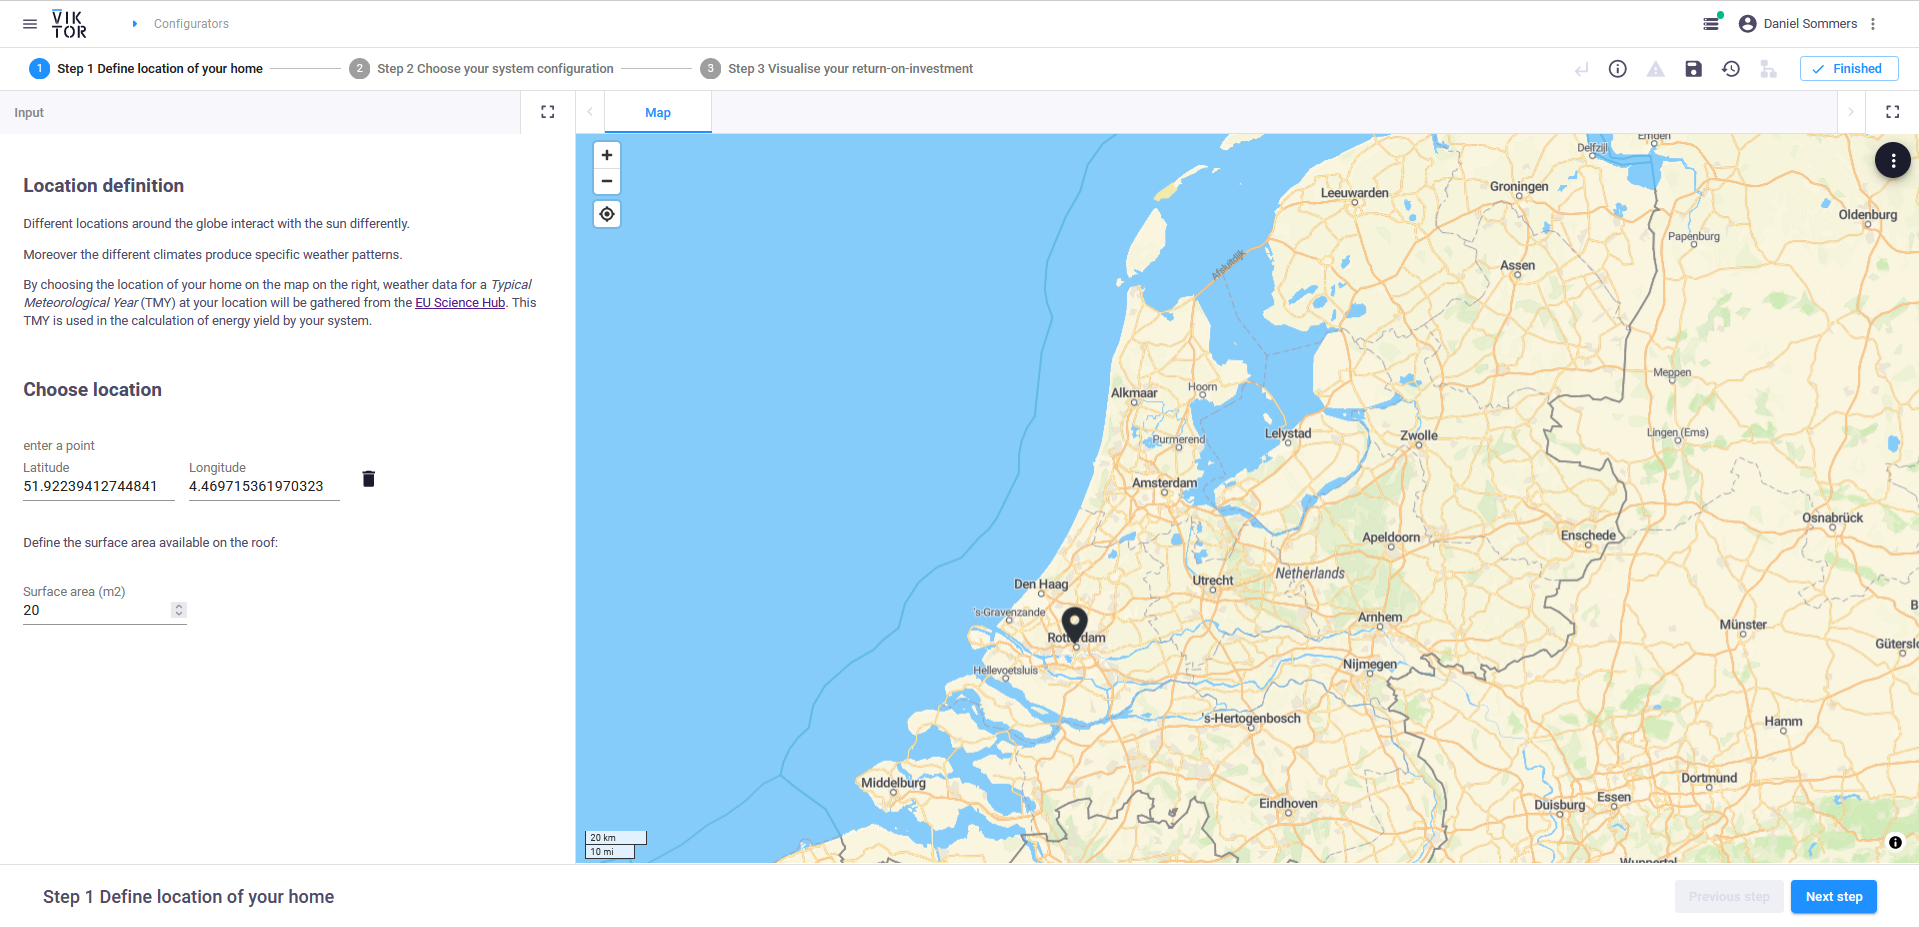
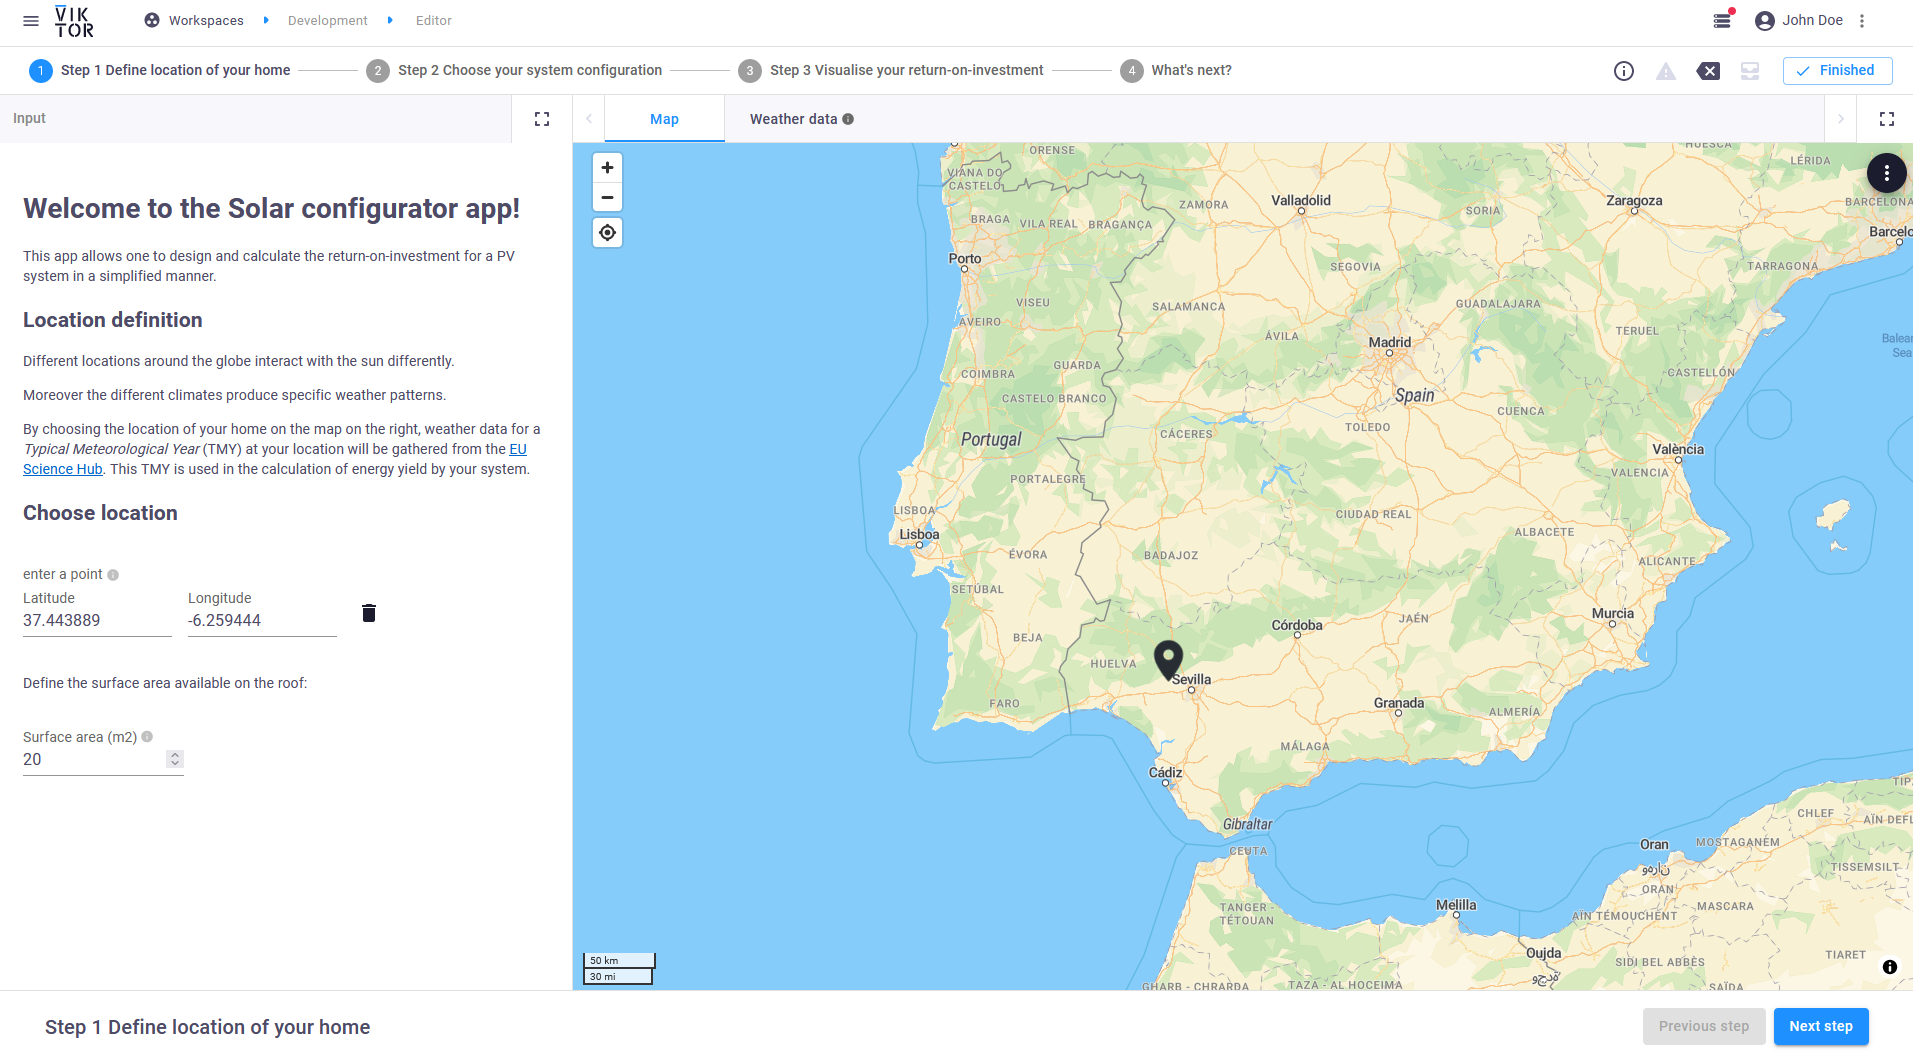
final step added, readme updated, changes made after review

diff --git a/final_step.html b/final_step.html
@@ -1,0 +1,90 @@
+<!DOCTYPE html>
+<html>
+<head>
+    <title>Title of the document</title>
+    <style>
+      div {
+        display: flex;
+        flex-direction: column;
+        justify-content: center;
+        align-items: center;
+        height: 100%;
+        width: 100%;
+
+        font-family: 'Roboto', sans-serif;
+        font-style: normal;
+      }
+      h5 {
+        font-weight: 400;
+        font-size: 48px;
+        line-height: 116.7%;
+        text-align: center;
+        color: #14142B;
+      }
+      p {
+      font-weight: 400;
+      font-size: 16px;
+      line-height: 175%;
+      text-align: center;
+      letter-spacing: 0.15px;
+      color: #4E4B66;
+    }
+    button_text {
+      width: 153px;
+      height: 26px;
+      font-weight: 500;
+      font-size: 15px;
+      line-height: 26px;
+      letter-spacing: 0.46px;
+      text-transform: capitalize;
+      color: #FFFFFF;
+      flex: none;
+      order: 0;
+      flex-grow: 0;
+    }
+    a {
+        display: flex;
+        flex-direction: column;
+        align-items: center;
+        padding: 4px 4px;
+        gap: 8px;
+        justify-content: center;
+        width: 197px;
+        height: 42px;
+        font-family: 'Roboto', sans-serif;
+        font-style: normal;
+        font-weight: bold;
+        font-size: 15px;
+        line-height: 26px;
+        text-decoration: none;
+        color: #FFFFFF;
+        background: #1E90FF;
+        box-shadow: 0px 3px 1px -2px rgba(0, 0, 0, 0.2), 0px 2px 2px rgba(0, 0, 0, 0.14), 0px 1px 5px rgba(0, 0, 0, 0.12);
+        border-radius: 4px;
+        flex: none;
+        order: 0;
+        flex-grow: 0;
+        cursor: pointer;
+    }
+    </style>
+</head>
+<body>
+<div>
+    <h5>
+        &#x2600;&#xfe0f;<br><br>So, what's next?
+    </h5>
+    <p>
+        Do you want to explore more public VIKTOR apps?
+    </p>
+    <a href="https://www.viktor.ai/apps-gallery/" target="_blank" rel="noopener noreferrer" class="button">Explore apps</a>
+    <p>
+        Do you want to build your own VIKTOR app?
+    </p>
+    <a href="https://www.viktor.ai/start-building-apps" style="background-color: #FFCC33; color: #14142B" target="_blank" rel="noopener noreferrer" class="button">Get started!</a>
+    <p>
+        Curious how this app was built? Go check out the repository:
+    </p>
+    <a href="https://github.com/viktor-platform/sample-solar-panel-configurator" style="background-color: #14142B" target="_blank" rel="noopener noreferrer" class="button">Github repository</a>
+</div>
+</body>
+</html>

diff --git a/app.py b/app.py
@@ -15,6 +15,7 @@ CONTRACT, TORT OR OTHERWISE, ARISING FROM, OUT OF OR IN CONNECTION WITH THE SOFT
 SOFTWARE.
 """
 import datetime
+from pathlib import Path
 
 import numpy as np
 import pandas as pd
@@ -31,6 +32,8 @@ from viktor.views import (
     PlotlyAndDataView,
     PlotlyResult,
     PlotlyView,
+    WebResult,
+    WebView,
 )
 
 from constants import inverter_name_dict, module_name_dict
@@ -212,9 +215,7 @@ class Controller(ViktorController):
             number_of_decimals=2,
         )
 
-        data = DataGroup(
-            energy_info, number_of_modules, inverter_cost, module_cost, total_cost
-        )
+        data = DataGroup(energy_info, number_of_modules, inverter_cost, module_cost, total_cost)
 
         # prepare data for plotly
         yield_df = yield_df.groupby(pd.Grouper(key="dat", freq="1D")).sum()
@@ -280,9 +281,9 @@ class Controller(ViktorController):
         time_period = "-"
         if idxs:
             break_even_date = x_dat[idxs[0]]
-            time_period = datetime.datetime.strptime(
-                break_even_date, "%Y-%m-%d %H:%M"
-            ) - datetime.datetime.strptime(x_dat[0], "%Y-%m-%d %H:%M")
+            time_period = datetime.datetime.strptime(break_even_date, "%Y-%m-%d %H:%M") - datetime.datetime.strptime(
+                x_dat[0], "%Y-%m-%d %H:%M"
+            )
             time_period = round(time_period.days / 365, 1)
             _line = {
                 "type": "rect",
@@ -305,21 +306,19 @@ class Controller(ViktorController):
                 "data": [
                     {
                         "type": "line",
-                        "x": x_dat,
-                        "y": y_dat.tolist(),
+                        "x": x_dat[::50],
+                        "y": y_dat.tolist()[::50],
                         "name": "Energy yield",
                     },
                     {
                         "type": "line",
-                        "x": x_dat,
-                        "y": z_dat.tolist(),
+                        "x": x_dat[::50],
+                        "y": z_dat.tolist()[::50],
                         "name": "Break-even point",
                     },
                 ],
                 "layout": {
-                    "title": {
-                        "text": f"Energy generation over time (break-even = {time_period} years)"
-                    },
+                    "title": {"text": f"Energy generation over time (break-even = {time_period} years)"},
                     "xaxis": {"title": {"text": "Forecast horizon"}},
                     "yaxis": {"title": {"text": "Revenue produced by system [€]"}},
                 },
@@ -329,7 +328,12 @@ class Controller(ViktorController):
         else:
             fig = {
                 "data": [
-                    {"type": "bar", "x": x_dat, "y": y_dat.tolist(), "name": "Energy yield"}
+                    {
+                        "type": "bar",
+                        "x": x_dat[::50],
+                        "y": y_dat.tolist()[::50],
+                        "name": "Energy yield",
+                    }
                 ],
                 "layout": {
                     "title": {"text": "Energy generation over time"},
@@ -341,9 +345,7 @@ class Controller(ViktorController):
         return PlotlyResult(fig)
 
     @staticmethod
-    def get_energy_generation(
-        location: GeoPoint, inverter: str, solar_module: str, solar_surface_area: float
-    ):
+    def get_energy_generation(location: GeoPoint, inverter: str, solar_module: str, solar_surface_area: float):
         """Generate energy yield data"""
         return calculate_energy_generation(
             latitude=location.lat,
@@ -359,3 +361,11 @@ class Controller(ViktorController):
         current_year = datetime.date.today().year
         frame = frame.apply(lambda dt: dt.replace(year=current_year + increment))
         return frame
+
+    @WebView(" ", duration_guess=1)
+    def final_step(self, params, **kwargs):
+        """Initiates the process of rendering the last step."""
+        html_path = Path(__file__).parent / "final_step.html"
+        with html_path.open() as f:
+            html_string = f.read()
+        return WebResult(html=html_string)

diff --git a/pv_calculations.py b/pv_calculations.py
@@ -15,7 +15,6 @@ CONTRACT, TORT OR OTHERWISE, ARISING FROM, OUT OF OR IN CONNECTION WITH THE SOFT
 SOFTWARE.
 """
 import datetime
-from pathlib import Path
 
 import pandas as pd
 import pvlib
@@ -33,9 +32,7 @@ def translate_names(entry):
 
 def get_location_data(latitude, longitude):
     """Retrieves the weather data based on the location."""
-    weather, _, inputs, _ = pvlib.iotools.get_pvgis_tmy(
-        latitude, longitude, map_variables=True
-    )
+    weather, _, inputs, _ = pvlib.iotools.get_pvgis_tmy(latitude, longitude, map_variables=True)
     weather.index.name = "utc_time"
     altitude = inputs["location"]["elevation"]
 
@@ -71,9 +68,7 @@ def calculate_energy_generation(
     nr_modules = area // surface_area
 
     # get temperature specifications of module materials (default most used in consumer-systems)
-    temperature_model_parameters = pvlib.temperature.TEMPERATURE_MODEL_PARAMETERS[
-        "sapm"
-    ]["open_rack_glass_glass"]
+    temperature_model_parameters = pvlib.temperature.TEMPERATURE_MODEL_PARAMETERS["sapm"]["open_rack_glass_glass"]
 
     # retreive weather data and elevation (altitude)
     location_data = get_location_data(latitude, longitude)
@@ -121,12 +116,8 @@ def calculate_energy_generation(
         total_irrad["poa_direct"], total_irrad["poa_diffuse"], am_abs, aoi, module
     )
     dc_yield = pvlib.pvsystem.sapm(effective_irradiance, tcell, module)
-    ac_yield = pvlib.inverter.sandia(
-        dc_yield["v_mp"] * nr_modules, dc_yield["p_mp"] * nr_modules, inverter
-    )
-    ac_yield_per_module = pvlib.inverter.sandia(
-        dc_yield["v_mp"], dc_yield["p_mp"], inverter
-    )
+    ac_yield = pvlib.inverter.sandia(dc_yield["v_mp"] * nr_modules, dc_yield["p_mp"] * nr_modules, inverter)
+    ac_yield_per_module = pvlib.inverter.sandia(dc_yield["v_mp"], dc_yield["p_mp"], inverter)
 
     # output for the energy per module
     yield_per_module = ac_yield_per_module.to_frame()
@@ -137,9 +128,7 @@ def calculate_energy_generation(
     # prepare data for presentation and visualisation
     acdf = ac_yield.to_frame()
     acdf["utc_time"] = pd.to_datetime(acdf.index)
-    acdf["utc_time"] = acdf["utc_time"].apply(
-        lambda dt: dt.replace(year=datetime.date.today().year)
-    )
+    acdf["utc_time"] = acdf["utc_time"].apply(lambda dt: dt.replace(year=datetime.date.today().year))
 
     acdf.columns = ["val", "dat"]
 

diff --git a/parametrization.py b/parametrization.py
@@ -17,6 +17,7 @@ SOFTWARE.
 """
 from munch import Munch
 from viktor.errors import UserError
+from viktor.geometry import GeoPoint
 from viktor.parametrization import (
     GeoPointField,
     NumberField,
@@ -28,6 +29,8 @@ from viktor.parametrization import (
 )
 
 from constants import inverter_name_dict
+
+DEFAULT_LOCATION = GeoPoint(37.443889, -6.259444)
 
 
 def validate_step_1(params, **kwargs):
@@ -58,7 +61,7 @@ class ConfiguratorParametrization(Parametrization):
     )
 
     step_1.text = Text(
-        """# Welcome to the Solar configurator app
+        """# Welcome to the Solar configurator app!
 This app allows one to design and calculate the return-on-investment for a PV system in a simplified manner.
 
 ## Location definition
@@ -78,6 +81,7 @@ system.
     step_1.point = GeoPointField(
         "enter a point",
         description="Click a location on the map to select it for calculation",
+        default=DEFAULT_LOCATION,
     )
     step_1.text3 = Text("""Define the surface area available on the roof:""")
     step_1.surface = NumberField(
@@ -164,9 +168,7 @@ compensated by the revenue produced.
         default=5,
         flex=80,
         min=1,
-        description="Amount of years starting at"
-        "  \n the beginning of this year"
-        "  \n (enter only whole years)",
+        description="Amount of years starting at" "  \n the beginning of this year" "  \n (enter only whole years)",
     )
     step_3.kwh_cost = NumberField(
         "Enter kWh price to calculate break-even",
@@ -190,8 +192,5 @@ point.
 """
     )
     step_3.break_even_toggle = ToggleButton("Show break-even point", default=True)
-    step_3.text3 = Text(
-        """### Curious how this app was made?
-For more information, check out the [repository on Github](https://github.com/viktor-platform/sample-solar-panel-configurator)
-"""
-    )
+
+    final_step = Step("What's next?", views="final_step")

diff --git a/README.md b/README.md
@@ -4,23 +4,44 @@
 
 This sample app shows how to design a home PV-system and calculate its yield.
 
-The goal of this sample app is to show how a super easy to use app looks like. 
-Concepts like Steps, descriptions and markdown text is present to guide a user.
-This app also interacts with external databases for component information and weather data.
+The goal of this app is to demonstrate how the VIKTOR platform can be used in the renewable energy industry, as well as
+ to demonstrate how a platform like VIKTOR can leverage community supported developments to accelerate the pace of 
+developments and innovation. This app was developed on top of an open-source python library (`pvlib`) that provides a 
+set of functions and classes for simulating the performance of photovoltaic energy systems.
 
-A published version of this app is available on [demo.viktor.ai](https://demo.viktor.ai/workspaces/10/app/)
+With the VIKTOR platform the development is made accessible to a larger audience through a user-friendly web 
+interface.
 
-**Step 1: Define home location**
+A published version of this app is available on [demo.viktor.ai](https://demo.viktor.ai/workspaces/10/app/).
+
+### Step 1: Define home location
+
+By selecting the location, the relevant weather and solar irradiance data can be collected. The relevant 
+weather data is also presented in the tab next to the map for the user to inspect.
 
 ![](resources/Step_1.png)
 
-**Step 2: Choose system configuration**
+### Step 2: Choose system configuration
+
+The system can be configured by selecting a system type, inverter and solar module. Using an inventory of 
+available data of the listed inverters and modules, an estimation of the yield and cost can be determined.
+Presented is the energy yield for a given year for the given configuration, as well as the costs associated 
+with this system.
 
 ![](resources/Step_2.png)
 
-**Step 3: Visualise ROI**
+### Step 3: Visualise ROI
+
+With all the data available, it is possible to estimate a return-on-investment for the given configuration. 
+Assuming a fixed rate energy tariff, the ROI is estimated.
 
 ![](resources/Step_3.png)
+
+### Animation
+
+Here is a brief animation of the app:
+
+![](resources/steps.gif)
 
 ## App structure 
 This is an editor-only app type.
